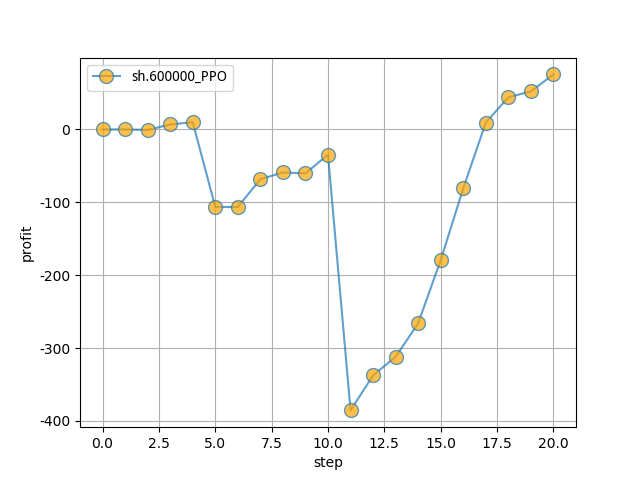
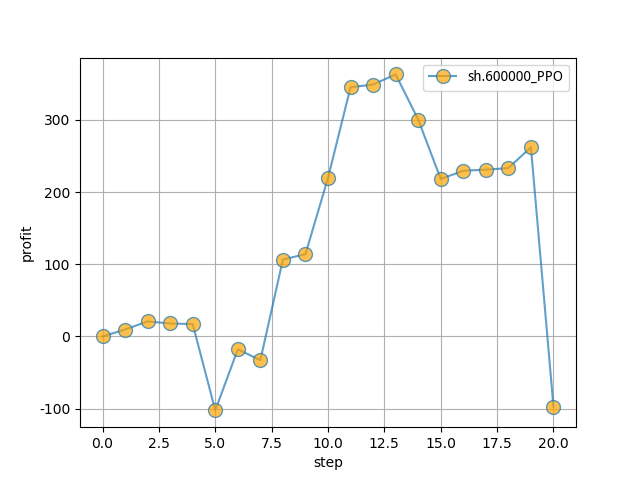
增加config.yaml

diff --git a/main.py b/main.py
@@ -3,6 +3,10 @@ from stable_baselines3 import PPO, A2C, DDPG, TD3
 from stable_baselines3.common.vec_env import DummyVecEnv
 from env.StockTradingEnv import StockTradingEnv
 from util import find_file, plot_daily_profits
+import yaml
+
+with open('config.yaml') as f:
+    args = yaml.safe_load(f)
 
 def stock_trade(stock_file, RL_model):
 
@@ -19,7 +23,7 @@ def stock_trade(stock_file, RL_model):
     elif RL_model == 'TD3':
         model = TD3("MlpPolicy", env, verbose=0, tensorboard_log='./log')
 
-    model.learn(total_timesteps=int(1e4))
+    model.learn(total_timesteps=args['train_args']['total_timesteps'])
 
     # 模型测试
     day_profits = []
@@ -42,6 +46,7 @@ def test_a_stock_trade(stock_code, RL_model):
     plot_daily_profits(stock_code, RL_model, daily_profits)
 
 if __name__ == '__main__':
-    test_a_stock_trade('sh.600000', 'PPO')
+
+    test_a_stock_trade(args['train_args']['stock_code'], args['train_args']['rl_model'])
 
 

diff --git a/env/StockTradingEnv.py b/env/StockTradingEnv.py
@@ -2,6 +2,10 @@ import random
 import gym
 import numpy as np
 from gym import spaces
+import yaml
+
+with open('config.yaml') as f:
+    args = yaml.safe_load(f)
 
 MAX_ACCOUNT_BALANCE = 2147483647
 MAX_NUM_SHARES = 2147483647
@@ -12,8 +16,7 @@ MAX_OPEN_POSITIONS = 5
 MAX_STEPS = 20000
 MAX_DAY_CHANGE = 1
 
-# 初始资金
-INITIAL_ACCOUNT_BALANCE = 10000
+INITIAL_ACCOUNT_BALANCE = args['env_args']['initial_account_balance']
 
 class StockTradingEnv(gym.Env):
     """A stock trading environment for OpenAI gym"""

diff --git a/README.md b/README.md
@@ -10,7 +10,8 @@
 nohup python -u python data/get_stock_data_train.py > get_train.log 2>&1 &
 nohup python -u python data/get_stock_data_test.py > get_test.log 2>&1 &
 ```
-#### 2. 运行模型
+#### 2. 设置配置文件config.yaml(也可使用默认配置参数)
+#### 3. 运行模型
 ```
 python main.py
 ```
@@ -22,7 +23,7 @@ python main.py
 - [Create custom gym environments from scratch — A stock market example](https://towardsdatascience.com/creating-a-custom-openai-gym-environment-for-stock-trading-be532be3910e)
 
 主要改动:
-1. 调整代码结构
+1. 调整代码结构,增加配置文件
 2. RL算法模型使用最新版本的stable-baselines3，之前的stable-baselines已处于维护状态，且容易遇到tensorflow版本不兼容的问题
 3. 丰富RL模型
 
